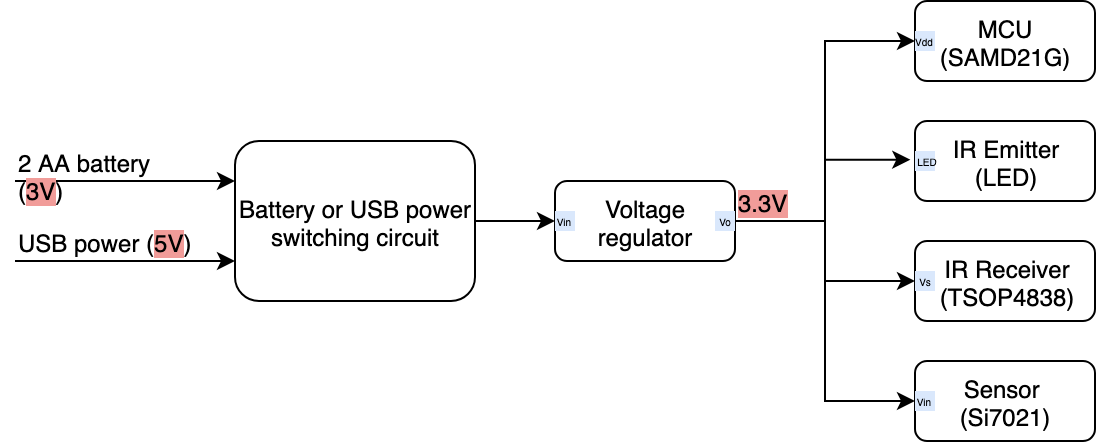
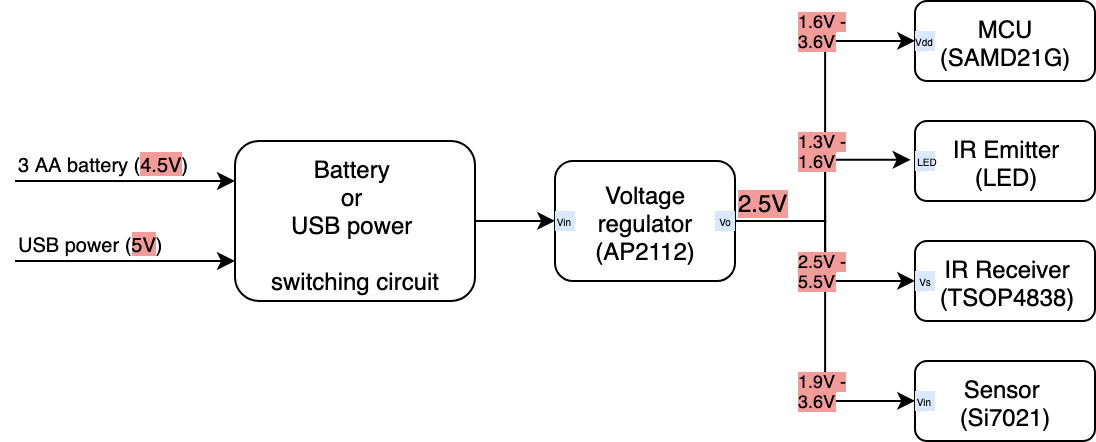
[design] Update power tree with AP2112 output voltage

diff --git a/power.md b/power.md
@@ -17,6 +17,7 @@ power_tree: true
           <th>Chip #</th>
           <th>Description</th>
           <th>Operating Voltage</th>
+          <th>Output Voltage</th>
         </tr>
       </thead>
       <tbody>
@@ -24,21 +25,31 @@ power_tree: true
           <td><a href="https://cdn.sparkfun.com/datasheets/Dev/Arduino/Boards/Atmel-42181-SAM-D21_Datasheet.pdf">SAMD21G</a></td>
           <td>MCU</td>
           <td><code>1.62V</code> to <code>3.63V</code></td>
+          <td></td>
         </tr>
         <tr>
           <td><a href="https://www.vishay.com/docs/82459/tsop48.pdf">TSOP4383</a></td>
           <td>IR Receiver</td>
           <td><code>2.5V</code> to <code>5.5V</code></td>
+          <td></td>
         </tr>
         <tr>
           <td><a href="https://docs-apac.rs-online.com/webdocs/1674/0900766b816747ad.pdf">SIR-56ST3F</a></td>
           <td>IR LED Emitter</td>
           <td><code>1.3V</code> to <code>1.6V</code></td>
+          <td></td>
         </tr>
         <tr>
           <td><a href="https://www.silabs.com/documents/public/data-sheets/Si7021-A20.pdf">Si7021-A20</a></td>
           <td>Temperature and humidity sensor</td>
           <td><code>1.9V</code> to <code>3.6V</code></td>
+          <td></td>
+        </tr>
+        <tr>
+          <td><a href="https://www.diodes.com/assets/Datasheets/AP2112.pdf">AP2112</a></td>
+          <td>Low dropout linear regulator</td>
+          <td><code>2.5V</code> to <code>6.0V</code></td>
+          <td><code>1.2V</code>, <code>1.8V</code>, <code>2.5V</code>, <code>2.6V</code>, or <code>3.3V</code></td>
         </tr>
       </tbody>
     </table>
